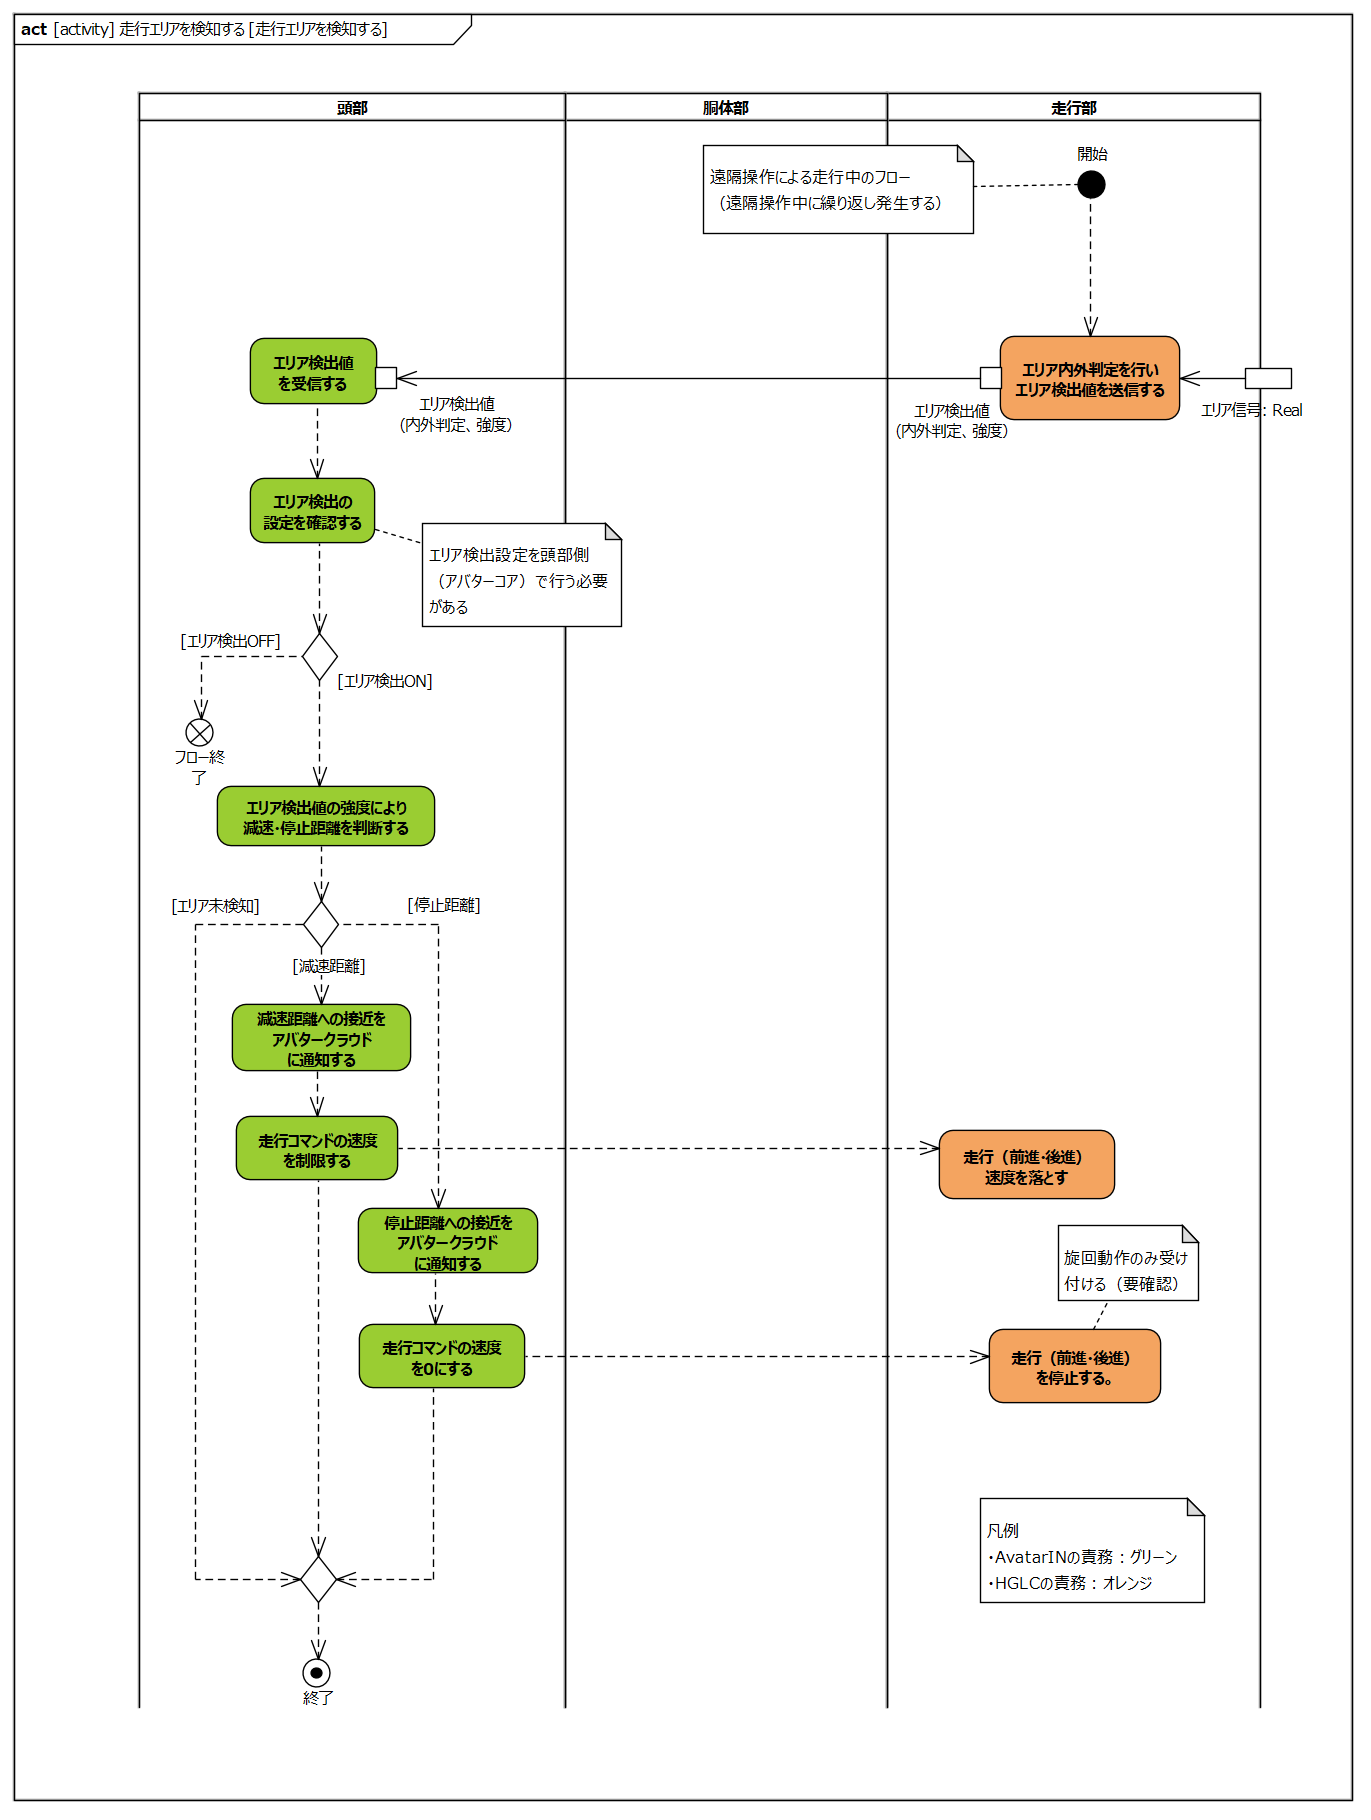
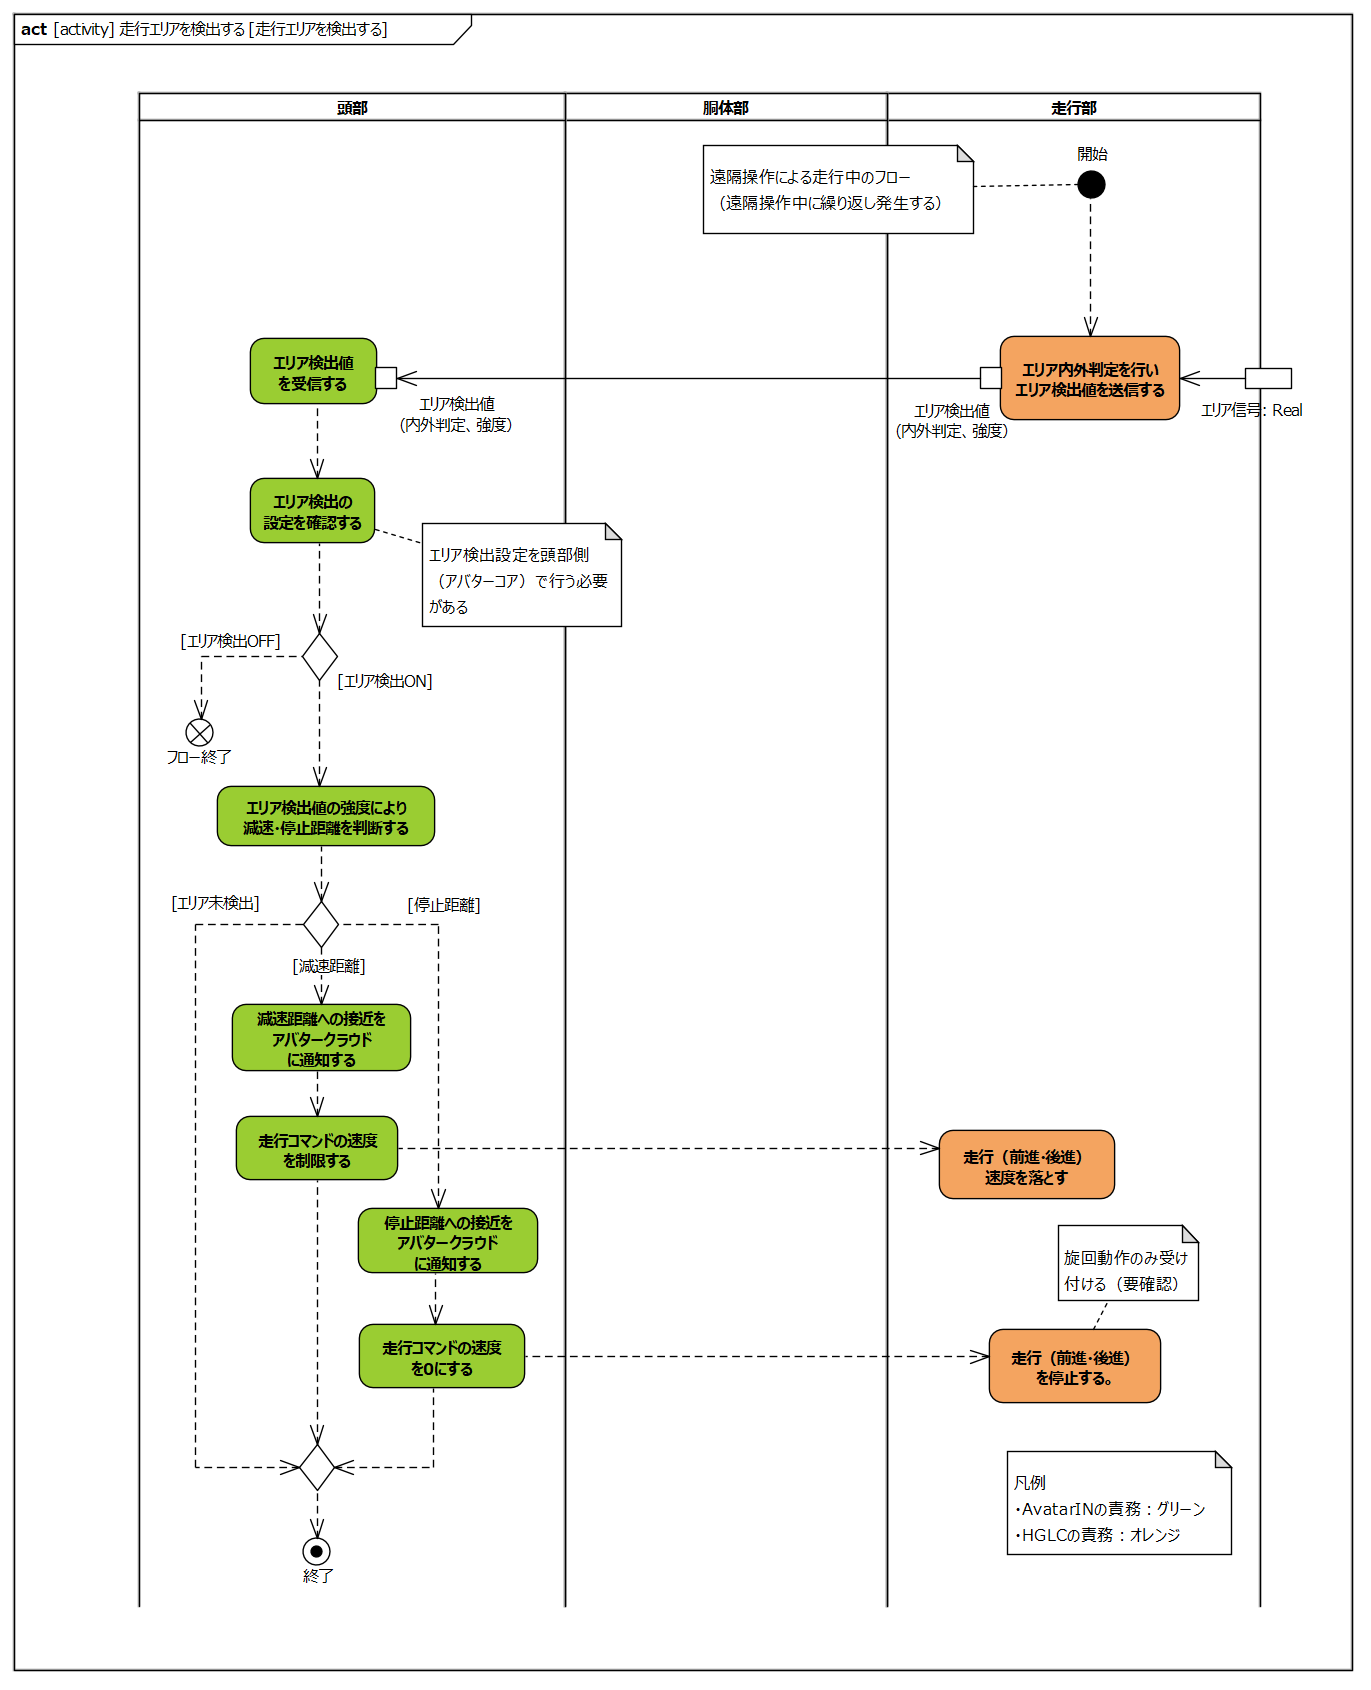
add requirement of station detection

diff --git a/requirements/requirement.md b/requirements/requirement.md
@@ -779,7 +779,8 @@
 |遠隔で設定する|遠隔でテレプレゼンスロボットのエリア検出方式などの設定を行う|・アバタークラウド|REQ-016|
 |一時停止する|電源スイッチ操作によりテレプレゼンスロボットを一時停止する|・アバター設置者|REQ-022|
 |一時停止を解除する|電源スイッチ操作によりテレプレゼンスロボットの一時停止を解除する|・アバター設置者|REQ-024|
-|走行エリアを検知する|エリア信号により走行エリアを検出し、速度を制御する|・アバタークラウド|REQ-017,<br/>REQ-018,<br/>REQ-029|
+|走行エリアを検出する|エリア信号により走行エリアを検出し、速度を制御する|・アバタークラウド|REQ-017,<br/>REQ-018|
+|充電ステーションを検出する|ステーション信号により充電ステーションを検出し、充電ステーション近傍を通知する|・アバタークラウド</br>・充電ステーション|REQ-029|
 |バッテリ残量低下を検知し停止する|テレプレゼンスロボットのバッテリ残量低下を検知し停止する|・アバタークラウド|REQ-020|
 |異常を検知し停止する|テレプレゼンスロボット内部の異常を検知し停止する|・アバタークラウド|REQ-026|
 |状態を表示する|テレプレゼンスロボットの状態を本体のステータスランプに表示する|・アバター設置者|REQ-005,<br/>REQ-023,<br/>REQ-025|
@@ -1058,7 +1059,7 @@ YES動作コマンドは首垂直動作に依存し、NO動作コマンドは首
 
 <div style="page-break-before:always"></div>
 
-## 走行エリアを検知する
+## 走行エリアを検出する
 
 **ユースケース概要**
 
@@ -1074,8 +1075,7 @@ YES動作コマンドは首垂直動作に依存し、NO動作コマンドは首
 - 事後条件
     - エリア検出の設定に応じて走行制御が行われること
 - 備考
-    - エリア検知OFFの場合、エリア検知を行わない
-	- todo
+    - エリア検出OFFの場合、エリア検出を行わない
 
 **要求抽出**
 
@@ -1093,6 +1093,36 @@ YES動作コマンドは首垂直動作に依存し、NO動作コマンドは首
 |走行部はエリアワイヤとの間に生じるエリア信号からエリア検出を行いエリア検出値を送信する||
 |走行部は頭部からの走行コマンドの速度制限指示にしたがい走行速度を落とす||
 |走行部は頭部からの走行コマンドの速度0指示にしたいがい走行を停止する||
+
+<div style="page-break-before:always"></div>
+
+## 充電ステーションを検出する
+
+**ユースケース概要**
+
+ステーション信号により充電ステーションを検出し、ステーション近傍を通知する
+
+**テレプレゼンスロボット内部の処理**
+
+![](.images/activity/station_detection.png)
+
+- 事前条件
+    - アバタークラウドへの接続が完了していること
+- 事後条件
+    - テレプレゼンスロボットが充電ステーション近傍にある場合、それがアバタークラウドに通知されていること
+- 備考
+	- なし
+
+**要求抽出**
+
+上記の内部の処理を元に要求を抽出する。
+
+|要求|備考|
+|:---|:---|
+|頭部は走行部からステーション検出値（内外判定、強度）を受信する||
+|頭部はステーション検出値によりステーション近傍を判断する||
+|頭部はステーション近傍に近づいたら、それをアバタークラウドに通知する||
+|走行部はステーションワイヤとの間に生じるステーション信号からステーション検出を行いステーション検出値を送信する||
 
 <div style="page-break-before:always"></div>
 
